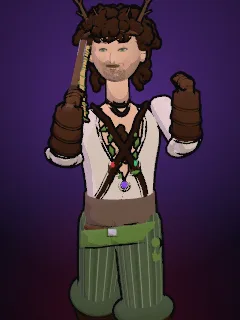
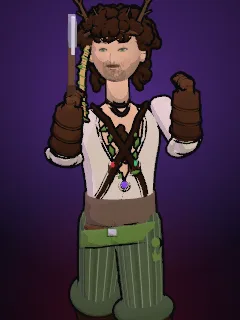
Release v5.50.3: O Inquebrável e o Herói da Vigília
- Mael: machadinha reorientada a partir do punho na guarda (cabo de pé, fio para
  o adversário); retratos refeitos.
- Nomes das formas: BRAN — O INQUEBRÁVEL e MAEL — O HERÓI DA VIGÍLIA.

Changed region(s): [[0.2625, 0.0312, 0.3792, 0.2812], [0.2625, 0.3125, 0.3208, 0.3438]]

diff --git a/src/config/version.js b/src/config/version.js
@@ -1,6 +1,6 @@
 // Versão semântica do jogo e NOVIDADES (changelog).
 // Para uma nova atualização: atualize VERSION e acrescente a entrada no TOPO de CHANGELOG.
-export const VERSION = '5.50.2';
+export const VERSION = '5.50.3';
 export const VERSION_LABEL = `v${VERSION}`;
 
 export function formatVersion(version) {
@@ -11,6 +11,15 @@ export function formatVersion(version) {
 }
 
 export const CHANGELOG = [
+  {
+    v: '5.50.3',
+    date: '2026-11-27',
+    title: 'O Inquebrável e o Herói da Vigília',
+    items: [
+      'Mael: a machadinha fica de pé no punho com o fio virado para o adversário (antes o cabo deitava para trás e o fio olhava para o rosto dele).',
+      'Transformações da Vigília com nome próprio: BRAN — O INQUEBRÁVEL e MAEL — O HERÓI DA VIGÍLIA, no HUD, nas falas e na seleção.',
+    ],
+  },
   {
     v: '5.50.2',
     date: '2026-11-27',

diff --git a/src/models/vigiliaProps.js b/src/models/vigiliaProps.js
@@ -122,7 +122,11 @@ function machadinha() {
 // guardada: só a forma Herói da Vigília liga
 export function addMaelProps(rig) {
   const h = machadinha();
-  inFist(h, -1.3);
+  inFist(h, 0);
+  // orientação achada a partir do punho na guarda (idle_fist): o cabo sobe na vertical, um pouco para a frente, e o FIO
+  // aponta para o adversário (dono, 2026-11-27: "o machado do mael ainda esta com a lamina virada para trás" — com o
+  // inFist(-1.3) o cabo deitava para trás rumo à cabeça e o fio olhava para o rosto dele)
+  h.rotation.set(2.92, 0.142, -3.013);
   rig.sockets.handR.add(h);
   rig.props.hatchet = h;
   for (const p of ['woodMask', 'leafCollar', 'heroCloak']) if (rig.props[p]) rig.showProp(p, false);

diff --git a/src/characters/forms/bran_inquebravel.js b/src/characters/forms/bran_inquebravel.js
@@ -16,7 +16,7 @@ export default {
   id: 'bran_inquebravel',
   form: true,
   baseId: 'bran',
-  name: 'BRAN',
+  name: 'BRAN — O INQUEBRÁVEL',
   model: 'bran_inquebravel',
   energyColor: PLUME,
   info: {

diff --git a/src/characters/forms/mael_heroi.js b/src/characters/forms/mael_heroi.js
@@ -17,7 +17,7 @@ export default {
   id: 'mael_heroi',
   form: true,
   baseId: 'mael',
-  name: 'MAEL',
+  name: 'MAEL — O HERÓI DA VIGÍLIA',
   model: 'mael_heroi',
   energyColor: FLAME,
   info: {

diff --git a/CHANGELOG.md b/CHANGELOG.md
@@ -1,5 +1,12 @@
 # Changelog
 
+## v5.50.3 — O Inquebrável e o Herói da Vigília
+
+### Alterado
+
+- Mael: a machadinha fica de pé no punho, com o fio virado para o adversário na guarda e no impacto dos talhos (antes o cabo deitava para trás, rumo à cabeça, e o fio olhava para o rosto dele). Retratos refeitos.
+- As transformações da Vigília ganharam nome próprio no HUD, nas falas e na seleção: **BRAN — O INQUEBRÁVEL** e **MAEL — O HERÓI DA VIGÍLIA**.
+
 ## v5.50.2 — Lança, Broquel e Machadinha
 
 ### Alterado

diff --git a/HABILIDADES.md b/HABILIDADES.md
@@ -2274,7 +2274,7 @@ Barra de Transformação cheia + vida ≤ 35%: segurar △ até passar da sanida
 
 ---
 
-## BRAN
+## BRAN — O INQUEBRÁVEL
 
 *O Inquebrável (até o fim do round)* · arma: A lança "Justiça", as azagaias e o broquel
 
@@ -2361,7 +2361,7 @@ Barra de Transformação cheia + vida ≤ 35%: segurar △ até passar da sanida
 
 ---
 
-## MAEL
+## MAEL — O HERÓI DA VIGÍLIA
 
 *Herói da Vigília (até o fim do round)* · arma: A machadinha, os punhos e as pedras do druida
 

diff --git a/README.md b/README.md
@@ -13,7 +13,7 @@ Jogo de luta 3D em arena com temática paranormal. Combate rápido e acessível,
 movimentação livre, ataques direcionais, defesa, esquiva, habilidades por combinação de
 botões e especiais cinematográficos. Feito com **Three.js + Vite**, roda no navegador.
 
-Versão atual do jogo: **v5.50.2**.
+Versão atual do jogo: **v5.50.3**.
 
 > Jogo **fan made**: projeto de fã sem fins lucrativos, baseado em *Ordem Paranormal* (Cellbit). Não é um jogo oficial.
 
